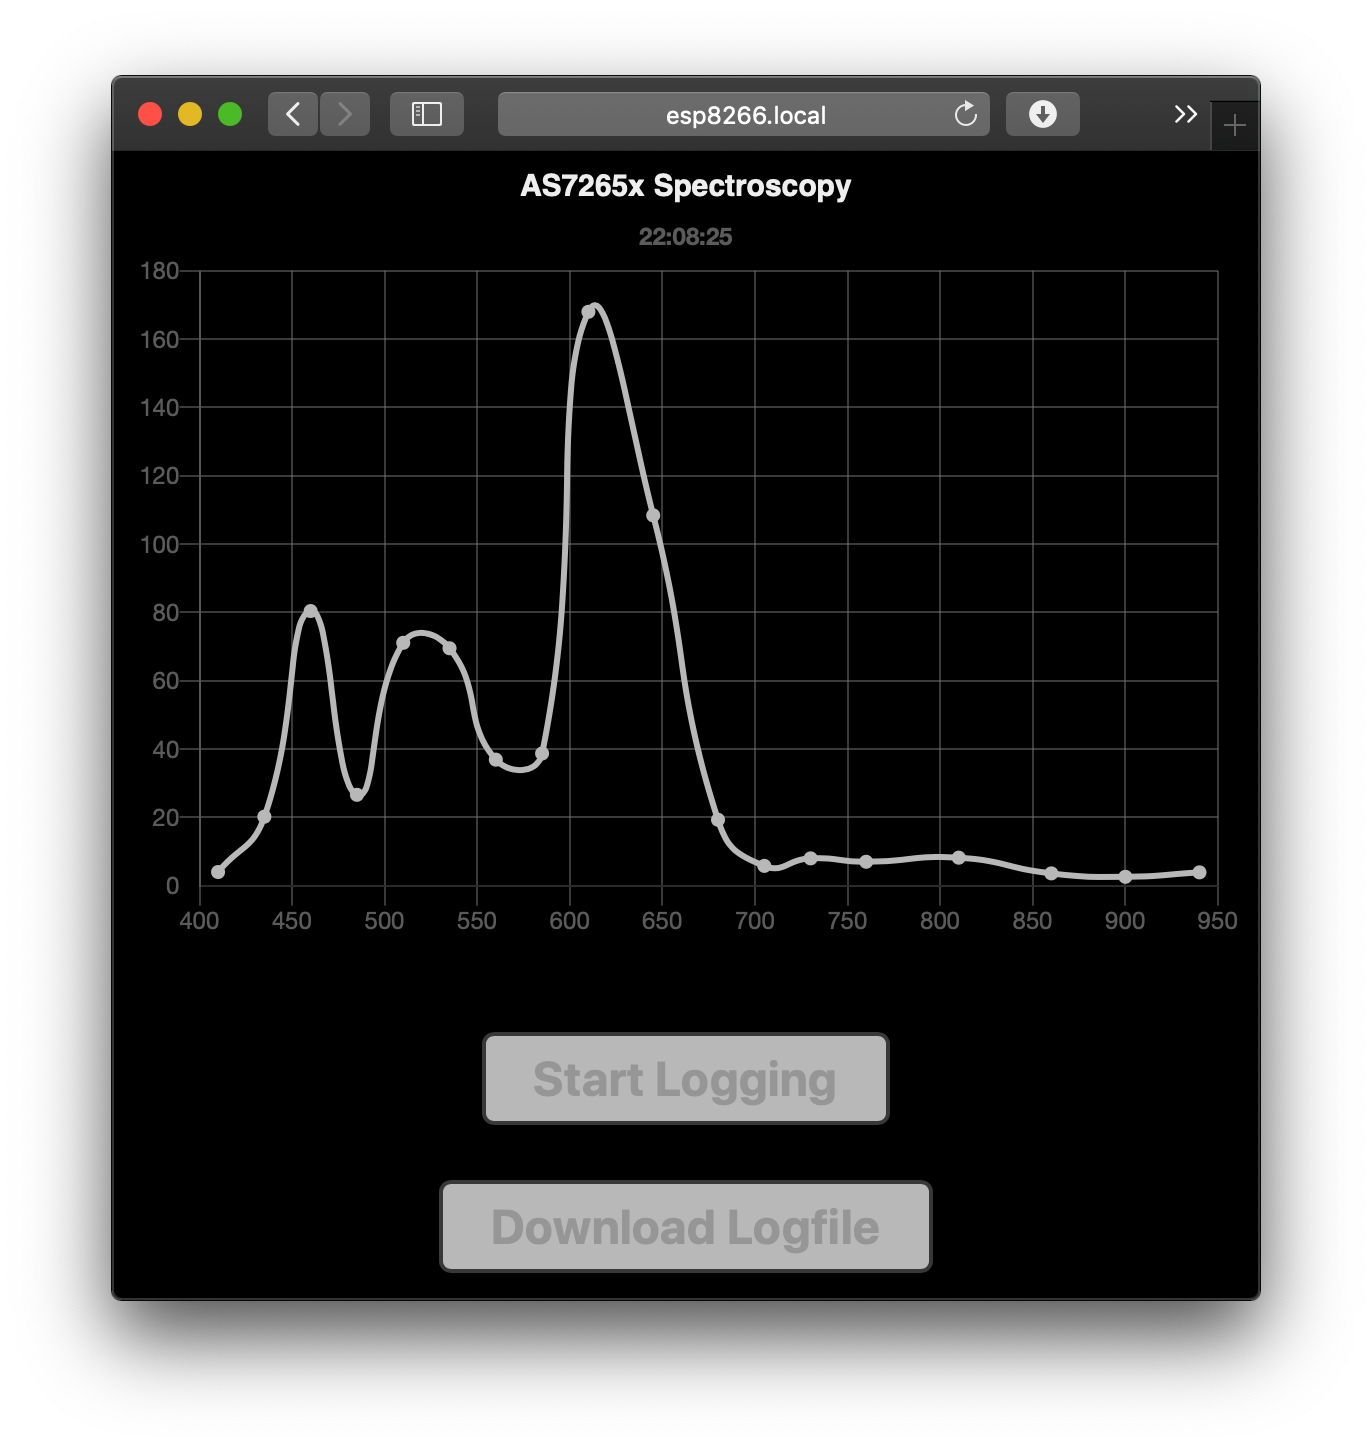
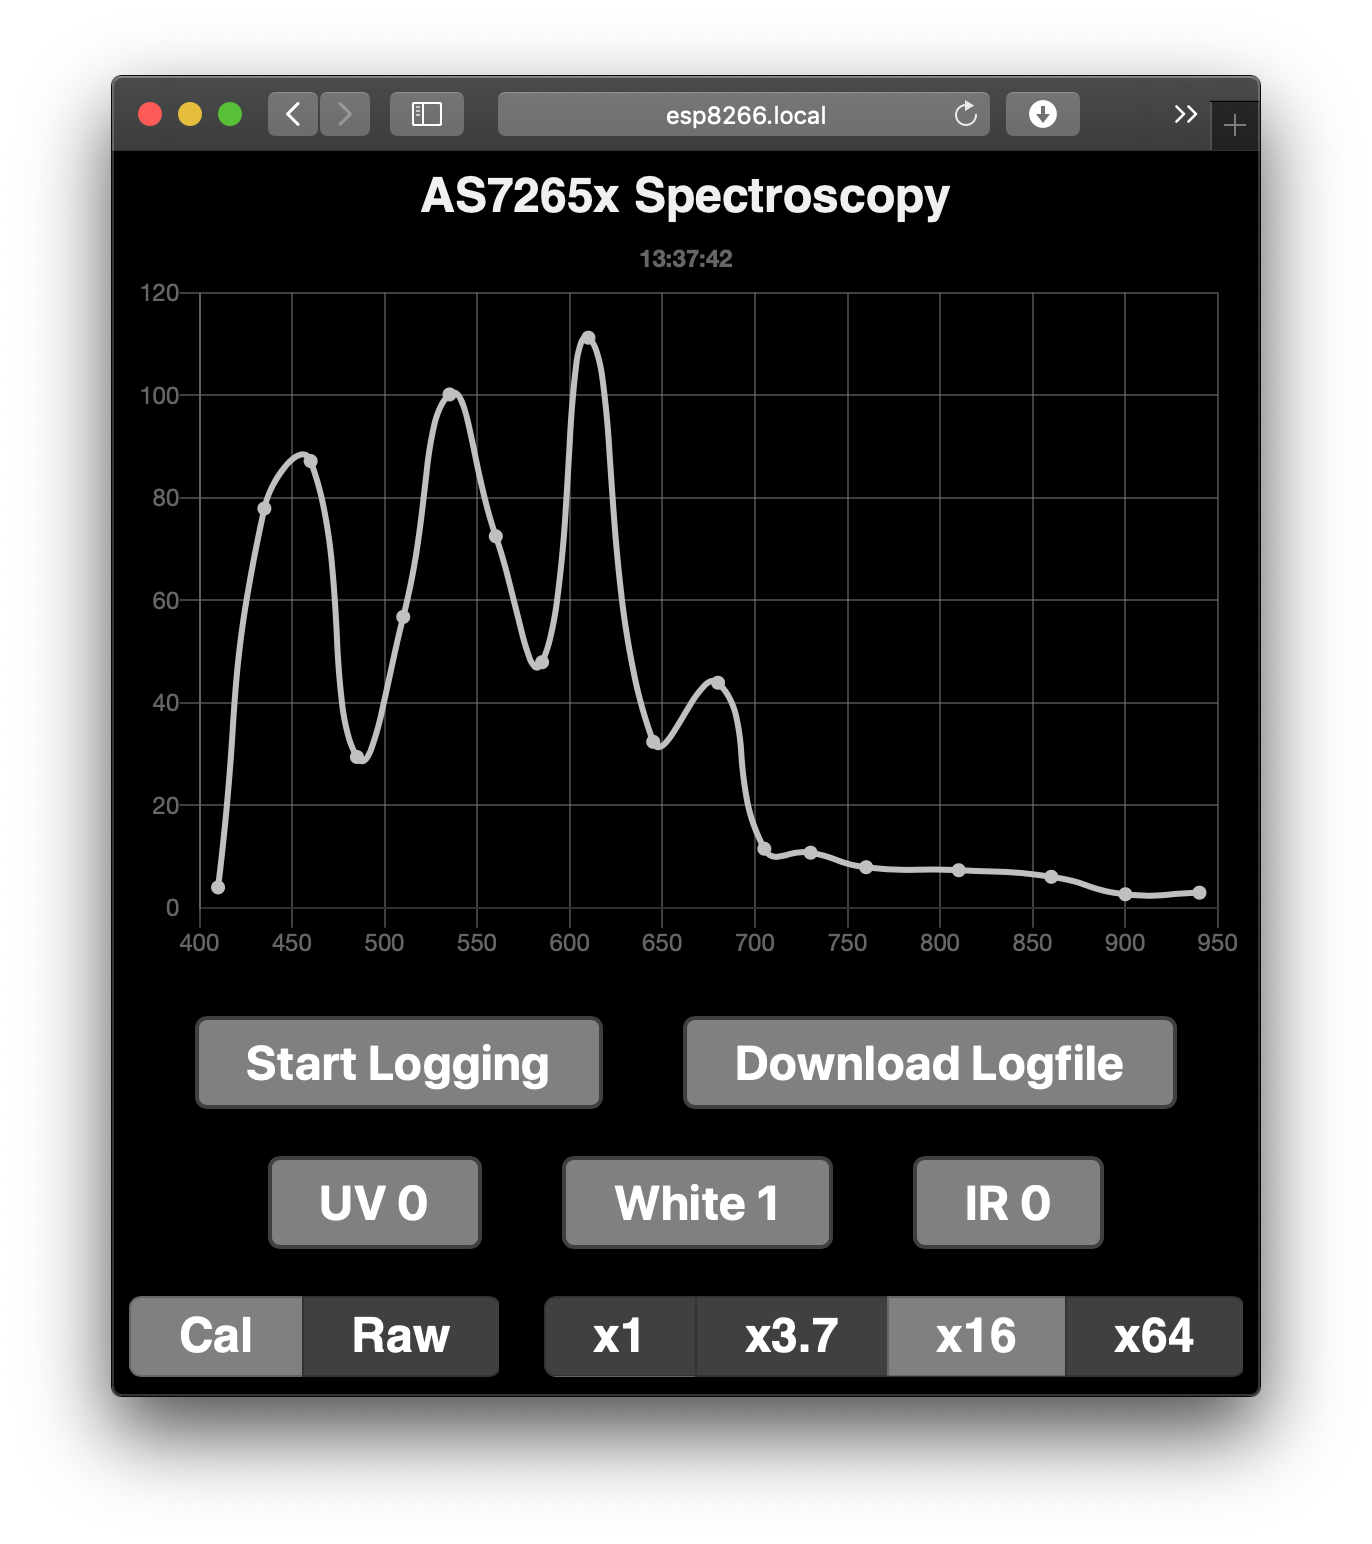
Gain switch added

diff --git a/data/index.html b/data/index.html
@@ -15,15 +15,33 @@
     </div>
     <div style="text-align:center;">
       <p>
-        <button id="ToggleLogBtn" class="button">Start Logging</button>
-        <button id="DownloadLogfileBtn" class="button button-hidden">Download Logfile</button>
+        <button id="ToggleLogBtn" class="ui button">Start Logging</button>
+        <button id="DownloadLogfileBtn" class="ui button button-hidden">Download Logfile</button>
       </p>
       <p>
-        <button id="ToggleUVLEDBtn" class="button">UV 0</button>
-        <button id="ToggleWhiteLEDBtn" class="button">White 0</button>
-        <button id="ToggleIRLEDBtn" class="button">IR 0</button>
-        <button id="ToggleCalBtn" class="button">Cal</button>
+        <button id="ToggleUVLEDBtn" class="ui button">UV 0</button>
+        <button id="ToggleWhiteLEDBtn" class="ui button">White 0</button>
+        <button id="ToggleIRLEDBtn" class="ui button">IR 0</button>
       </p>
+      <div class="center">
+        <form class="rbtn-field">
+          <input type="radio" id="Cal-0" name="calibrate" value="c" checked/>
+          <label for="Cal-0" class="ui rbtn-label">Cal</label>
+          <input type="radio" id="Cal-1" name="calibrate" value="r" />
+          <label for="Cal-1" class="ui rbtn-label">Raw</label>
+        </form>
+        <span class="sp5">&nbsp;</span>
+        <form class="rbtn-field">
+          <input type="radio" id="Gain-0" name="amplitude" value="0" checked/>
+          <label for="Gain-0" class="ui rbtn-label">x1</label>
+          <input type="radio" id="Gain-1" name="amplitude" value="1" />
+          <label for="Gain-1" class="ui rbtn-label">x3.7</label>
+          <input type="radio" id="Gain-2" name="amplitude" value="2" />
+          <label for="Gain-2" class="ui rbtn-label">x16</label>
+          <input type="radio" id="Gain-3" name="amplitude" value="3" />
+          <label for="Gain-3" class="ui rbtn-label">x64</label>
+        </form>
+      </div>
     </div>
 
     <script src="https://cdnjs.cloudflare.com/ajax/libs/Chart.js/2.9.4/Chart.min.js" integrity="sha512-d9xgZrVZpmmQlfonhQUvTR7lMPtO7NkZMkA0ABN3PHCbKA5nqylQ/yWlFAyY6hYgdF1Qh6nYiuADWwKB4C2WSw==" crossorigin="anonymous"></script>
@@ -102,11 +120,16 @@
           let args = evt.data.split(' ');
           let arg0 = args[0];
           switch (arg0) {
-          case 'btnMessage':
+          case 'updateBtn':
             // arg[1] for id of a button
             // arg[2...end] is a display text of the button
             let btn = document.getElementById(args[1]);
             btn.innerHTML = args.slice(2).join(' ');
+            break;
+          case 'updateRbtn':
+            // arg[1] for id of a radio button
+            let rbtn = document.getElementById(args[1]);
+            rbtn.checked = true;
             break;
           case 'loggingStarted':
             toggleLogBtn.innerHTML = 'Stop Logging';
@@ -171,14 +194,28 @@
       }
 
       function initButtons() {
+        // Button messages
         const btnList = document.getElementsByClassName('button');
         for (const btn of btnList) {
           btn.addEventListener("click", function(){
-            const idstr = 'on' + btn.id;
+            const idstr = btn.id;
             ws.send(idstr);
           });
         }
+        // Download button needs to send additional information
         downloadLogfileBtn.addEventListener('click', onDownloadLogfileBtn);
+
+        // Radio button messages
+        //  <input type="radio" id="rbtn-0" name="amplitude" value="0" checked/>
+        //  <label for="rbtn-0" class="ui rbtn-label">x1</label>
+        const labelList = document.getElementsByClassName('rbtn-label');
+        for (const l of labelList) {
+          l.addEventListener("click", function(){
+            const rbtn = l.control;
+            const idstr = rbtn.id + ' ' + rbtn.value;
+            ws.send(idstr);
+          });
+        }
       }
 
       function onDownloadLogfileBtn() {

diff --git a/data/style.css b/data/style.css
@@ -1,22 +1,27 @@
 body {
     font-family: Helvetica, Arial, Sans-serif;
-    font-size: 15px;
+    font-weight: bold;
+    font-size: 1.5rem;
     color: #f0f0f0;
     background-color: black;
 }
 
 /* https://saruwakakun.com/html-css/reference/buttons */
 
-.button {
+.ui {
   display: inline-block;
-  padding: 0.3em 1em;
-  margin: 5% 5% 0%;
   font-weight: bold;
-  text-decoration: none;
   font-size: 1.5rem;
-  color: #a0a0a0;
+  text-decoration: none;
+  color: #ffffff;
+  background: #808080;
   border: solid 2px #404040;
   border-radius: 6px;
+  padding: 0.3em 1em;
+}
+
+.button {
+  margin: 0% 3%;
   transition: .4s;
   -webkit-touch-callout: none;
   -webkit-user-select: none;
@@ -39,3 +44,50 @@ body {
   opacity: 1;
   transition: visibility 0s linear 0s, opacity 500ms;
 }
+
+.center {
+  display: flex;
+  justify-content:center;
+}
+
+.rbtn-field {
+  display: flex;
+  overflow: hidden;
+}
+
+.rbtn-field input {
+  position: absolute !important;
+  clip: rect(0, 0, 0, 0);
+  height: 1px;
+  width: 1px;
+  border: 0;
+  overflow: hidden;
+}
+
+.rbtn-field label {
+  background: #404040;
+  line-height: 1;
+  margin-right: -1px;
+  border: 1px solid rgba(0, 0, 0, 0.2);
+  border-radius: 0px;
+  transition: all 0.1s ease-in-out;
+}
+
+.switc-field label:hover {
+  cursor: pointer;
+}
+
+.rbtn-field input:checked + label {
+  background: #808080;
+  box-shadow: none;
+}
+
+.rbtn-field label:first-of-type {
+  border-radius: 6px 0 0 6px;
+}
+
+.rbtn-field label:last-of-type {
+  border-radius: 0 6px 6px 0;
+}
+
+span.sp5 { letter-spacing: 1rem; }
